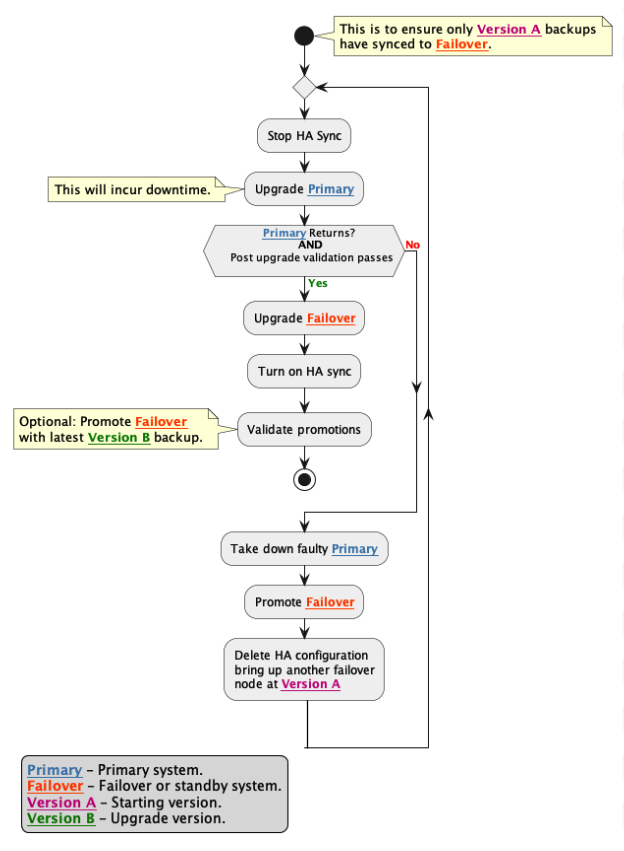
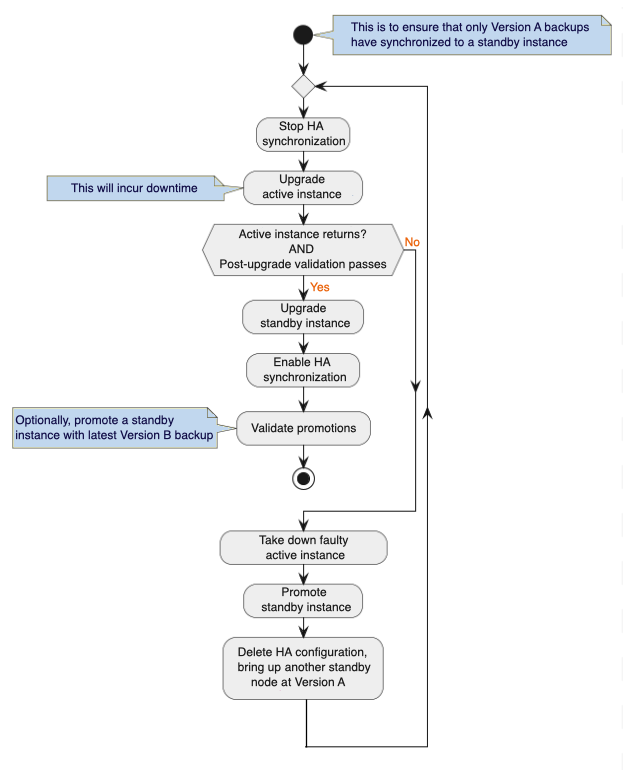
[Docs] PR for Replace flowchart in upgrade YBA with enabled high availability (#16111)
* Update ha-upgrade.png

* Modified content

* Reduced image canvas size

Changed region(s): [[0.0, 0.0, 1.0, 0.9974]]

diff --git a/docs/content/preview/yugabyte-platform/manage-deployments/high-availability.md b/docs/content/preview/yugabyte-platform/manage-deployments/high-availability.md
@@ -145,14 +145,11 @@ The following diagram provides a graphical representation of the upgrade procedu
 
 The following table provides the terminology mapping between the upgrade diagram and the upgrade procedure description:
 
-| Diagram        | Procedure description                                        |
-| -------------- | ------------------------------------------------------------ |
-| HA             | High availability                                            |
-| Sync           | Synchronization                                              |
-| Primary system | Active instance                                              |
-| Failover       | Standby instance                                             |
-| Version A      | Original YugabyteDB Anywhere version that is subject to upgrade |
-| Version B      | Newer YugabyteDB Anywhere version to which to upgrade        |
+| Diagram   | Procedure description                                        |
+| --------- | ------------------------------------------------------------ |
+| HA        | High availability                                            |
+| Version A | Original YugabyteDB Anywhere version that is subject to upgrade |
+| Version B | Newer YugabyteDB Anywhere version to which to upgrade        |
 
 ## Remove a standby instance
 
